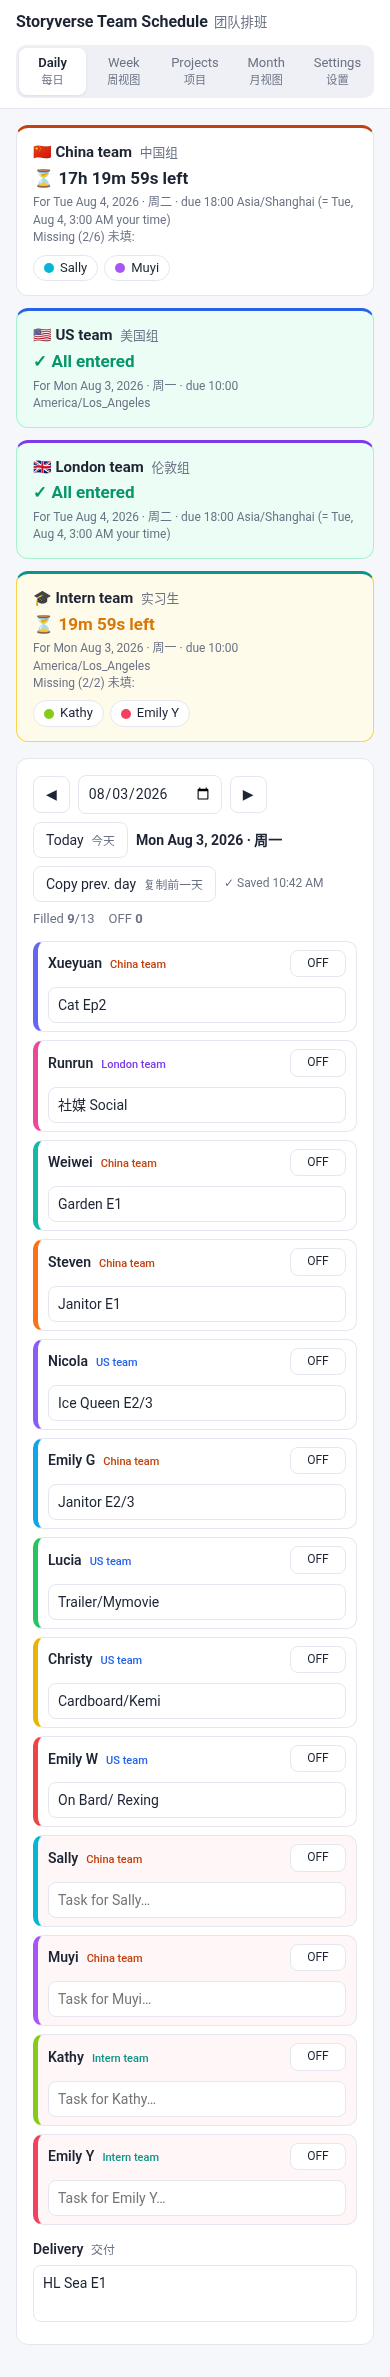
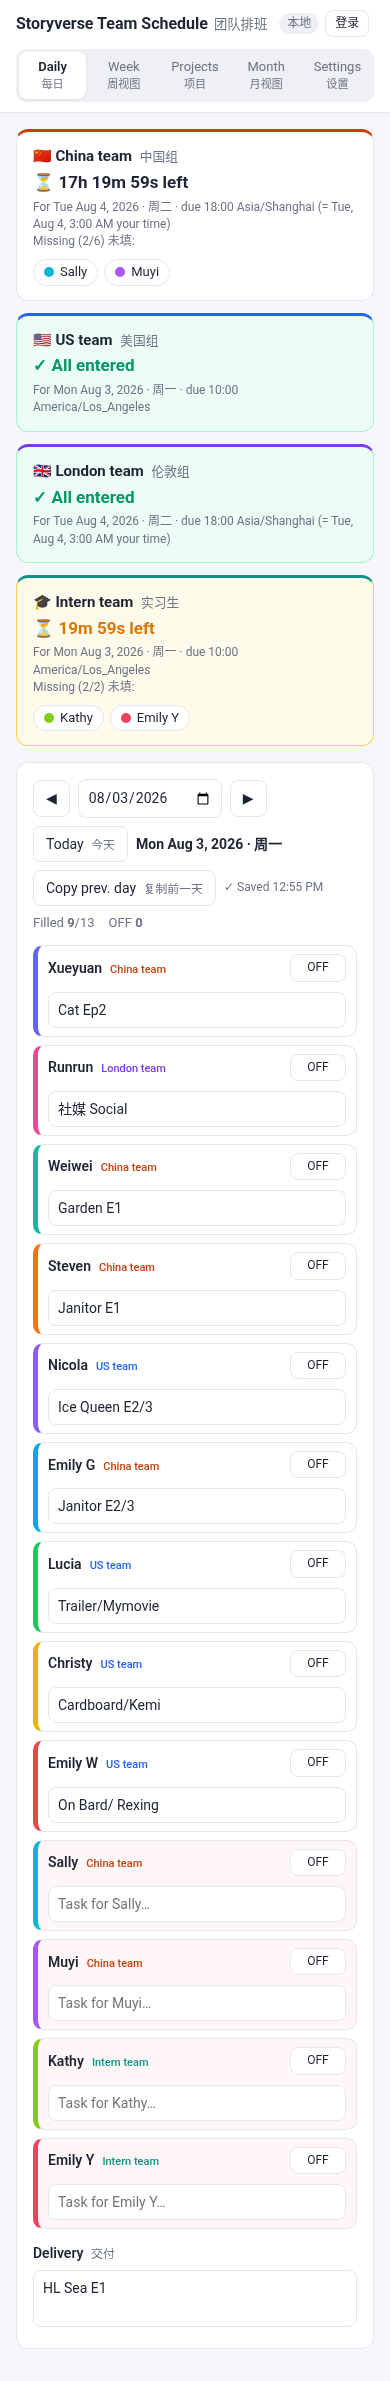
Optional private-repo sync (GitHub Contents API) with 登录/退出, 保存, auto-save, sha conflict handling

diff --git a/index.html b/index.html
@@ -112,6 +112,12 @@ code{background:#f1f3f9;padding:1px 5px;border-radius:4px;font-size:12px}
 .mdl.tk{color:var(--mute);background:transparent;padding-top:0}
 .legend{display:flex;flex-wrap:wrap;gap:6px 14px;margin-top:10px;font-size:12px;color:var(--mute)}
 .legend span{cursor:pointer}
+/* sync */
+.sync{display:flex;gap:6px;align-items:center}
+#syncState{font-size:12px;padding:2px 8px;border-radius:999px;background:#eef0f5;color:var(--mute);white-space:nowrap}
+#syncState.ok{background:var(--grns);color:var(--grn)}#syncState.dirty{background:var(--ambs);color:var(--amb)}#syncState.err{background:var(--reds);color:var(--red)}
+#loginCard{max-width:620px;margin:0 auto 16px}
+#loginCard input{width:100%;max-width:460px}
 @media (max-width:900px){
  .pj{grid-template-columns:28px 1fr 1fr auto;row-gap:6px}
  .pj .c-name{grid-column:2/4}.pj .c-del{grid-column:4;grid-row:1}
@@ -131,6 +137,12 @@ code{background:#f1f3f9;padding:1px 5px;border-radius:4px;font-size:12px}
 <body>
 <header><div class="bar">
  <div class="brand">Storyverse Team Schedule<small>团队排班</small></div>
+ <div class="sync" id="syncBox">
+  <span id="syncState" title="云端同步状态">本地</span>
+  <button class="btn sm pri hidden" id="syncSave">保存</button>
+  <label class="hint hidden" id="autoWrap" title="修改后几秒自动保存到云端"><input type="checkbox" id="syncAuto"> 自动</label>
+  <button class="btn sm" id="syncLogin">登录</button>
+ </div>
  <nav id="tabs">
   <button data-v="daily" class="on">Daily <span class="zh">每日</span></button>
   <button data-v="week">Week <span class="zh">周视图</span></button>
@@ -141,6 +153,12 @@ code{background:#f1f3f9;padding:1px 5px;border-radius:4px;font-size:12px}
 </div></header>
 <div id="toast"><div class="in"><div id="toastMsg" style="flex:1"></div><button id="toastX">Dismiss</button></div></div>
 <main>
+ <section class="card hidden" id="loginCard">
+  <h3 style="margin-top:0">登录同步 <span class="zh">Sign in to sync</span></h3>
+  <p class="hint">登录后，排班、项目、成员和团队设置会保存到私有仓库 <b id="syncRepoName"></b> 的 <code id="syncPathName"></code>，所有登录的人看到同一份数据。不登录也可以照常使用（只保存在本浏览器）。</p>
+  <p class="hint">请粘贴一个对该仓库有「Contents: 读写」权限的 GitHub 令牌。令牌只保存在本浏览器（localStorage），只发送到 api.github.com。</p>
+  <div class="row"><input id="tok" type="password" placeholder="github_pat_... 或 ghp_..." autocomplete="off"><button class="btn pri" id="tokGo">登录</button><button class="btn" id="tokCancel">取消</button></div>
+ </section>
  <div id="banner"></div>
 
  <section id="v-daily">
@@ -249,7 +267,7 @@ code{background:#f1f3f9;padding:1px 5px;border-radius:4px;font-size:12px}
      <label class="btn">Import JSON<input type="file" id="iJson" accept=".json,application/json" hidden></label>
      <button class="btn" id="eCsv">Export CSV (sheet layout)</button>
     </div>
-    <p class="hint">Data is stored in this browser only (localStorage). Export a JSON backup regularly; import it on another device to move your data.</p>
+    <p class="hint">Not signed in: data is stored in this browser only (localStorage). Signed in (登录): data syncs to a private GitHub repo and is shared by everyone signed in; a local copy is kept too. Export a JSON backup regularly.</p>
     <hr style="border:0;border-top:1px solid var(--line);margin:14px 0">
     <button class="btn danger" id="sReset">Reset all data to original sheet import</button>
     <p class="hint">Projects 项目 are kept when resetting.</p>
@@ -374,9 +392,9 @@ const team = id => SET.teams.find(t => t.id === id) || SET.teams[0];
 const teamOf = p => team(p.team);
 const badge = (p, long) => { const t = teamOf(p); return `<span class="badge" style="color:${t ? t.color : 'inherit'}">${esc(t ? t.name : p.team)}${long ? ' team' : ''}</span>`; };
 let saveTimer;
-function saveData() { localStorage.setItem(LS_DATA, JSON.stringify(DATA)); $('#saveState').textContent = '✓ Saved ' + new Date().toLocaleTimeString([], {hour:'numeric',minute:'2-digit'}); }
+function saveData() { localStorage.setItem(LS_DATA, JSON.stringify(DATA)); if (window.syncTouched) syncTouched(); $('#saveState').textContent = '✓ Saved ' + new Date().toLocaleTimeString([], {hour:'numeric',minute:'2-digit'}); }
 function saveDataSoon() { $('#saveState').textContent = 'Saving…'; clearTimeout(saveTimer); saveTimer = setTimeout(() => { saveData(); tick(true); }, 400); }
-const saveSet = () => localStorage.setItem(LS_SET, JSON.stringify(SET));
+const saveSet = () => { localStorage.setItem(LS_SET, JSON.stringify(SET)); if (window.syncTouched) syncTouched(); };
 saveSet(); if (DATA_MIGRATED) localStorage.setItem(LS_DATA, JSON.stringify(DATA));
 const getTask = (date, name) => (DATA.tasks[date] || {})[name] || '';
 function setTask(date, name, val) {
@@ -744,12 +762,99 @@ $('#eCsv').onclick = () => {
   download(`team-schedule-${ymd(now())}.csv`, '\ufeff' + lines.join('\r\n'), 'text/csv;charset=utf-8');
 };
 
+/* ---------- cloud sync (GitHub Contents API, private repo) ---------- */
+// Where shared data lives. Change owner/repo here to move it (e.g. to another account or an org).
+const SYNC = { owner: 'dora11111111', repo: 'storyverse-schedule-data', path: 'schedule.json', branch: 'main', api: 'https://api.github.com' };
+// Own token key — deliberately NOT the payroll app's key ('sv_payroll_token'), so tokens are never shared between the two sites.
+const LS_TOK = 'sv_schedule_token', LS_AUTO = 'sv_schedule_autosave', LS_SYNCSHA = 'sv_schedule_sha';
+// Settings that are shared with everyone; the rest (sound, heads-up minutes) stay per-browser.
+const SHARED_SET = ['teams', 'skipWeekends', 'version'];
+let syncSha = null, syncDirty = false, syncApplying = false, syncBusy = false, syncTimer = null, syncOn = false;
+const b64dec = b => new TextDecoder().decode(Uint8Array.from(atob(b.replace(/\n/g, '')), c => c.charCodeAt(0)));
+function b64enc(s) { const u = new TextEncoder().encode(s); let b = ''; for (let i = 0; i < u.length; i += 0x8000) b += String.fromCharCode(...u.subarray(i, i + 0x8000)); return btoa(b); }
+const tok = () => localStorage.getItem(LS_TOK);
+async function ghApi(method, body) {
+  const url = `${SYNC.api}/repos/${SYNC.owner}/${SYNC.repo}/contents/${SYNC.path}` + (method === 'GET' ? `?ref=${SYNC.branch}&t=${Date.now()}` : '');
+  const r = await fetch(url, { method, cache: 'no-store', headers: { Authorization: 'Bearer ' + tok(), Accept: 'application/vnd.github+json', 'X-GitHub-Api-Version': '2022-11-28' }, body: body && JSON.stringify(body) });
+  const j = await r.json().catch(() => ({})); if (!r.ok) { const e = new Error(j.message || r.status); e.status = r.status; throw e; } return j;
+}
+function syncState(text, cls) { const e = $('#syncState'); e.textContent = text; e.className = cls || ''; }
+function syncUi() {
+  syncOn = !!tok();
+  $('#syncLogin').textContent = syncOn ? '退出' : '登录';
+  $('#syncSave').classList.toggle('hidden', !syncOn); $('#autoWrap').classList.toggle('hidden', !syncOn);
+  $('#syncAuto').checked = localStorage.getItem(LS_AUTO) !== '0';
+  if (!syncOn) syncState('本地', '');
+}
+const syncDoc = () => ({ app: 'storyverse-team-schedule', format: 1, savedAt: new Date().toISOString(), data: DATA, settings: Object.fromEntries(SHARED_SET.filter(k => k in SET).map(k => [k, SET[k]])) });
+function applyDoc(doc) {
+  const d = doc.data || {}; if (!d.people || !d.tasks) throw new Error('schedule.json 格式不正确');
+  syncApplying = true;
+  try {
+    DATA = { stamps: {}, weekNotes: {}, delivery: {}, projects: [], ...d }; migrateData(DATA);
+    if (doc.settings) { for (const k of SHARED_SET) if (k in doc.settings) SET[k] = doc.settings[k]; if (!Array.isArray(SET.teams) || !SET.teams.length) SET.teams = TEAMS_DEFAULT.map(t => ({ ...t })); SET.version = SETTINGS_VERSION; }
+    saveSet(); saveData(); renderAll(); if (!$('#v-projects').classList.contains('hidden')) renderProjects(); if (!$('#v-month').classList.contains('hidden')) renderMonth();
+  } finally { syncApplying = false; }
+}
+window.syncTouched = () => {
+  if (syncApplying || !syncOn) return;
+  syncDirty = true; syncState('未保存', 'dirty');
+  clearTimeout(syncTimer); if ($('#syncAuto').checked) syncTimer = setTimeout(() => syncSave(true), 4000);
+};
+function backupLocal(tag) { download(`team-schedule-${tag}-${ymd(now())}-${Date.now() % 100000}.json`, JSON.stringify({ app: 'storyverse-team-schedule', exportedAt: new Date().toISOString(), data: DATA, settings: SET }, null, 1), 'application/json'); }
+async function syncLoad(opts = {}) {
+  if (!tok()) return; syncBusy = true; syncState('同步中…', '');
+  try {
+    const j = await ghApi('GET'); syncSha = j.sha; localStorage.setItem(LS_SYNCSHA, j.sha);
+    applyDoc(JSON.parse(b64dec(j.content))); syncDirty = false;
+    syncState(opts.conflict ? '冲突 · 已载入最新' : '已同步', opts.conflict ? 'err' : 'ok');
+    $('#loginCard').classList.add('hidden');
+  } catch (e) {
+    if (e.status === 404) {
+      syncSha = null;
+      if (confirm(`云端还没有 ${SYNC.repo}/${SYNC.path}（或令牌无权访问该仓库）。\n要把本浏览器当前的数据上传为第一份云端数据吗？`)) { syncBusy = false; return syncSave(false, true); }
+      syncState('云端无文件', 'err');
+    } else if (e.status === 401) { syncState('令牌无效', 'err'); alert('令牌无效或已过期，请重新登录。'); localStorage.removeItem(LS_TOK); syncUi(); $('#loginCard').classList.remove('hidden'); }
+    else if (e.status === 403) { syncState('无权限', 'err'); alert(`该令牌没有 ${SYNC.owner}/${SYNC.repo} 的读写权限。`); }
+    else syncState('加载失败', 'err');
+  } finally { syncBusy = false; }
+}
+async function syncSave(auto, first) {
+  if (!tok() || syncBusy) { if (syncBusy && auto) { clearTimeout(syncTimer); syncTimer = setTimeout(() => syncSave(true), 2000); } return; }
+  clearTimeout(syncTimer); syncBusy = true; syncState('保存中…', ''); $('#syncSave').disabled = true;
+  const body = { message: first ? 'Initial schedule data upload' : (auto ? 'Auto-save schedule' : 'Update schedule'), content: b64enc(JSON.stringify(syncDoc(), null, 1)), branch: SYNC.branch };
+  if (syncSha) body.sha = syncSha;
+  try {
+    const j = await ghApi('PUT', body); syncSha = j.content.sha; localStorage.setItem(LS_SYNCSHA, syncSha); syncDirty = false; syncState('已同步', 'ok');
+  } catch (e) {
+    if (e.status === 409 || (e.status === 422 && /sha/i.test(e.message))) {
+      syncBusy = false; syncState('冲突', 'err');
+      alert('冲突：别人已经修改了云端数据，你的修改没有覆盖它。\n已把你本地的版本下载为备份 JSON，现在载入云端最新版本。请在最新版本上重新修改。');
+      backupLocal('conflict-backup'); return syncLoad({ conflict: true });
+    }
+    syncState(e.status === 401 ? '令牌无效' : e.status === 403 || e.status === 404 ? '无权限' : '保存失败', 'err');
+    if (!auto) alert('保存失败：' + e.message);
+  } finally { syncBusy = false; $('#syncSave').disabled = false; }
+}
+$('#syncSave').onclick = () => syncSave(false);
+$('#syncAuto').onchange = e => { localStorage.setItem(LS_AUTO, e.target.checked ? '1' : '0'); if (e.target.checked && syncDirty) syncTouched(); };
+$('#syncLogin').onclick = () => {
+  if (tok()) { if (syncDirty && !confirm('还有未保存到云端的修改，确定退出吗？（修改仍保留在本浏览器）')) return; localStorage.removeItem(LS_TOK); localStorage.removeItem(LS_SYNCSHA); syncSha = null; syncDirty = false; syncUi(); return; }
+  $('#loginCard').classList.toggle('hidden'); $('#tok').focus();
+};
+$('#tokCancel').onclick = () => $('#loginCard').classList.add('hidden');
+$('#tokGo').onclick = () => { const t = $('#tok').value.trim(); if (!t) return; localStorage.setItem('storyverse.schedule.data.prelogin', JSON.stringify(DATA)); localStorage.setItem(LS_TOK, t); $('#tok').value = ''; syncUi(); syncLoad(); };
+$('#tok').onkeydown = e => { if (e.key === 'Enter') $('#tokGo').click(); };
+$('#syncRepoName').textContent = `${SYNC.owner}/${SYNC.repo}`; $('#syncPathName').textContent = SYNC.path;
+window.addEventListener('beforeunload', e => { if (syncOn && syncDirty) { e.preventDefault(); e.returnValue = ''; } });
+
 /* ---------- nav ---------- */
 function show(v) { ['daily','week','projects','month','settings'].forEach(x => $('#v-' + x).classList.toggle('hidden', x !== v)); document.querySelectorAll('#tabs button').forEach(b => b.classList.toggle('on', b.dataset.v === v)); if (v === 'week') renderWeek(); if (v === 'settings') renderSettings(); if (v === 'daily') renderDaily(); if (v === 'projects') renderProjects(); if (v === 'month') renderMonth(); }
 $('#tabs').onclick = e => { const b = e.target.closest('button'); if (b) show(b.dataset.v); };
 function renderAll() { renderDaily(); renderWeek(); renderSettings(); renderProjects(); renderMonth(); tick(true); }
 (() => { const p = new URLSearchParams(location.search); if (p.get('date')) curDate = p.get('date'); curWeek = weekStart(curDate); curMonth = curDate.slice(0, 7); renderAll(); if (p.get('view')) show(p.get('view')); })();
 if (!localStorage.getItem(LS_DATA)) saveData();
+syncUi(); if (tok()) syncLoad();
 setInterval(() => tick(false), 1000); // countdown every 1s; deadline check runs every 30s inside tick
 </script>
 </body>

diff --git a/template.html b/template.html
@@ -112,6 +112,12 @@ code{background:#f1f3f9;padding:1px 5px;border-radius:4px;font-size:12px}
 .mdl.tk{color:var(--mute);background:transparent;padding-top:0}
 .legend{display:flex;flex-wrap:wrap;gap:6px 14px;margin-top:10px;font-size:12px;color:var(--mute)}
 .legend span{cursor:pointer}
+/* sync */
+.sync{display:flex;gap:6px;align-items:center}
+#syncState{font-size:12px;padding:2px 8px;border-radius:999px;background:#eef0f5;color:var(--mute);white-space:nowrap}
+#syncState.ok{background:var(--grns);color:var(--grn)}#syncState.dirty{background:var(--ambs);color:var(--amb)}#syncState.err{background:var(--reds);color:var(--red)}
+#loginCard{max-width:620px;margin:0 auto 16px}
+#loginCard input{width:100%;max-width:460px}
 @media (max-width:900px){
  .pj{grid-template-columns:28px 1fr 1fr auto;row-gap:6px}
  .pj .c-name{grid-column:2/4}.pj .c-del{grid-column:4;grid-row:1}
@@ -131,6 +137,12 @@ code{background:#f1f3f9;padding:1px 5px;border-radius:4px;font-size:12px}
 <body>
 <header><div class="bar">
  <div class="brand">Storyverse Team Schedule<small>团队排班</small></div>
+ <div class="sync" id="syncBox">
+  <span id="syncState" title="云端同步状态">本地</span>
+  <button class="btn sm pri hidden" id="syncSave">保存</button>
+  <label class="hint hidden" id="autoWrap" title="修改后几秒自动保存到云端"><input type="checkbox" id="syncAuto"> 自动</label>
+  <button class="btn sm" id="syncLogin">登录</button>
+ </div>
  <nav id="tabs">
   <button data-v="daily" class="on">Daily <span class="zh">每日</span></button>
   <button data-v="week">Week <span class="zh">周视图</span></button>
@@ -141,6 +153,12 @@ code{background:#f1f3f9;padding:1px 5px;border-radius:4px;font-size:12px}
 </div></header>
 <div id="toast"><div class="in"><div id="toastMsg" style="flex:1"></div><button id="toastX">Dismiss</button></div></div>
 <main>
+ <section class="card hidden" id="loginCard">
+  <h3 style="margin-top:0">登录同步 <span class="zh">Sign in to sync</span></h3>
+  <p class="hint">登录后，排班、项目、成员和团队设置会保存到私有仓库 <b id="syncRepoName"></b> 的 <code id="syncPathName"></code>，所有登录的人看到同一份数据。不登录也可以照常使用（只保存在本浏览器）。</p>
+  <p class="hint">请粘贴一个对该仓库有「Contents: 读写」权限的 GitHub 令牌。令牌只保存在本浏览器（localStorage），只发送到 api.github.com。</p>
+  <div class="row"><input id="tok" type="password" placeholder="github_pat_... 或 ghp_..." autocomplete="off"><button class="btn pri" id="tokGo">登录</button><button class="btn" id="tokCancel">取消</button></div>
+ </section>
  <div id="banner"></div>
 
  <section id="v-daily">
@@ -249,7 +267,7 @@ code{background:#f1f3f9;padding:1px 5px;border-radius:4px;font-size:12px}
      <label class="btn">Import JSON<input type="file" id="iJson" accept=".json,application/json" hidden></label>
      <button class="btn" id="eCsv">Export CSV (sheet layout)</button>
     </div>
-    <p class="hint">Data is stored in this browser only (localStorage). Export a JSON backup regularly; import it on another device to move your data.</p>
+    <p class="hint">Not signed in: data is stored in this browser only (localStorage). Signed in (登录): data syncs to a private GitHub repo and is shared by everyone signed in; a local copy is kept too. Export a JSON backup regularly.</p>
     <hr style="border:0;border-top:1px solid var(--line);margin:14px 0">
     <button class="btn danger" id="sReset">Reset all data to original sheet import</button>
     <p class="hint">Projects 项目 are kept when resetting.</p>
@@ -374,9 +392,9 @@ const team = id => SET.teams.find(t => t.id === id) || SET.teams[0];
 const teamOf = p => team(p.team);
 const badge = (p, long) => { const t = teamOf(p); return `<span class="badge" style="color:${t ? t.color : 'inherit'}">${esc(t ? t.name : p.team)}${long ? ' team' : ''}</span>`; };
 let saveTimer;
-function saveData() { localStorage.setItem(LS_DATA, JSON.stringify(DATA)); $('#saveState').textContent = '✓ Saved ' + new Date().toLocaleTimeString([], {hour:'numeric',minute:'2-digit'}); }
+function saveData() { localStorage.setItem(LS_DATA, JSON.stringify(DATA)); if (window.syncTouched) syncTouched(); $('#saveState').textContent = '✓ Saved ' + new Date().toLocaleTimeString([], {hour:'numeric',minute:'2-digit'}); }
 function saveDataSoon() { $('#saveState').textContent = 'Saving…'; clearTimeout(saveTimer); saveTimer = setTimeout(() => { saveData(); tick(true); }, 400); }
-const saveSet = () => localStorage.setItem(LS_SET, JSON.stringify(SET));
+const saveSet = () => { localStorage.setItem(LS_SET, JSON.stringify(SET)); if (window.syncTouched) syncTouched(); };
 saveSet(); if (DATA_MIGRATED) localStorage.setItem(LS_DATA, JSON.stringify(DATA));
 const getTask = (date, name) => (DATA.tasks[date] || {})[name] || '';
 function setTask(date, name, val) {
@@ -744,12 +762,99 @@ $('#eCsv').onclick = () => {
   download(`team-schedule-${ymd(now())}.csv`, '\ufeff' + lines.join('\r\n'), 'text/csv;charset=utf-8');
 };
 
+/* ---------- cloud sync (GitHub Contents API, private repo) ---------- */
+// Where shared data lives. Change owner/repo here to move it (e.g. to another account or an org).
+const SYNC = { owner: 'dora11111111', repo: 'storyverse-schedule-data', path: 'schedule.json', branch: 'main', api: 'https://api.github.com' };
+// Own token key — deliberately NOT the payroll app's key ('sv_payroll_token'), so tokens are never shared between the two sites.
+const LS_TOK = 'sv_schedule_token', LS_AUTO = 'sv_schedule_autosave', LS_SYNCSHA = 'sv_schedule_sha';
+// Settings that are shared with everyone; the rest (sound, heads-up minutes) stay per-browser.
+const SHARED_SET = ['teams', 'skipWeekends', 'version'];
+let syncSha = null, syncDirty = false, syncApplying = false, syncBusy = false, syncTimer = null, syncOn = false;
+const b64dec = b => new TextDecoder().decode(Uint8Array.from(atob(b.replace(/\n/g, '')), c => c.charCodeAt(0)));
+function b64enc(s) { const u = new TextEncoder().encode(s); let b = ''; for (let i = 0; i < u.length; i += 0x8000) b += String.fromCharCode(...u.subarray(i, i + 0x8000)); return btoa(b); }
+const tok = () => localStorage.getItem(LS_TOK);
+async function ghApi(method, body) {
+  const url = `${SYNC.api}/repos/${SYNC.owner}/${SYNC.repo}/contents/${SYNC.path}` + (method === 'GET' ? `?ref=${SYNC.branch}&t=${Date.now()}` : '');
+  const r = await fetch(url, { method, cache: 'no-store', headers: { Authorization: 'Bearer ' + tok(), Accept: 'application/vnd.github+json', 'X-GitHub-Api-Version': '2022-11-28' }, body: body && JSON.stringify(body) });
+  const j = await r.json().catch(() => ({})); if (!r.ok) { const e = new Error(j.message || r.status); e.status = r.status; throw e; } return j;
+}
+function syncState(text, cls) { const e = $('#syncState'); e.textContent = text; e.className = cls || ''; }
+function syncUi() {
+  syncOn = !!tok();
+  $('#syncLogin').textContent = syncOn ? '退出' : '登录';
+  $('#syncSave').classList.toggle('hidden', !syncOn); $('#autoWrap').classList.toggle('hidden', !syncOn);
+  $('#syncAuto').checked = localStorage.getItem(LS_AUTO) !== '0';
+  if (!syncOn) syncState('本地', '');
+}
+const syncDoc = () => ({ app: 'storyverse-team-schedule', format: 1, savedAt: new Date().toISOString(), data: DATA, settings: Object.fromEntries(SHARED_SET.filter(k => k in SET).map(k => [k, SET[k]])) });
+function applyDoc(doc) {
+  const d = doc.data || {}; if (!d.people || !d.tasks) throw new Error('schedule.json 格式不正确');
+  syncApplying = true;
+  try {
+    DATA = { stamps: {}, weekNotes: {}, delivery: {}, projects: [], ...d }; migrateData(DATA);
+    if (doc.settings) { for (const k of SHARED_SET) if (k in doc.settings) SET[k] = doc.settings[k]; if (!Array.isArray(SET.teams) || !SET.teams.length) SET.teams = TEAMS_DEFAULT.map(t => ({ ...t })); SET.version = SETTINGS_VERSION; }
+    saveSet(); saveData(); renderAll(); if (!$('#v-projects').classList.contains('hidden')) renderProjects(); if (!$('#v-month').classList.contains('hidden')) renderMonth();
+  } finally { syncApplying = false; }
+}
+window.syncTouched = () => {
+  if (syncApplying || !syncOn) return;
+  syncDirty = true; syncState('未保存', 'dirty');
+  clearTimeout(syncTimer); if ($('#syncAuto').checked) syncTimer = setTimeout(() => syncSave(true), 4000);
+};
+function backupLocal(tag) { download(`team-schedule-${tag}-${ymd(now())}-${Date.now() % 100000}.json`, JSON.stringify({ app: 'storyverse-team-schedule', exportedAt: new Date().toISOString(), data: DATA, settings: SET }, null, 1), 'application/json'); }
+async function syncLoad(opts = {}) {
+  if (!tok()) return; syncBusy = true; syncState('同步中…', '');
+  try {
+    const j = await ghApi('GET'); syncSha = j.sha; localStorage.setItem(LS_SYNCSHA, j.sha);
+    applyDoc(JSON.parse(b64dec(j.content))); syncDirty = false;
+    syncState(opts.conflict ? '冲突 · 已载入最新' : '已同步', opts.conflict ? 'err' : 'ok');
+    $('#loginCard').classList.add('hidden');
+  } catch (e) {
+    if (e.status === 404) {
+      syncSha = null;
+      if (confirm(`云端还没有 ${SYNC.repo}/${SYNC.path}（或令牌无权访问该仓库）。\n要把本浏览器当前的数据上传为第一份云端数据吗？`)) { syncBusy = false; return syncSave(false, true); }
+      syncState('云端无文件', 'err');
+    } else if (e.status === 401) { syncState('令牌无效', 'err'); alert('令牌无效或已过期，请重新登录。'); localStorage.removeItem(LS_TOK); syncUi(); $('#loginCard').classList.remove('hidden'); }
+    else if (e.status === 403) { syncState('无权限', 'err'); alert(`该令牌没有 ${SYNC.owner}/${SYNC.repo} 的读写权限。`); }
+    else syncState('加载失败', 'err');
+  } finally { syncBusy = false; }
+}
+async function syncSave(auto, first) {
+  if (!tok() || syncBusy) { if (syncBusy && auto) { clearTimeout(syncTimer); syncTimer = setTimeout(() => syncSave(true), 2000); } return; }
+  clearTimeout(syncTimer); syncBusy = true; syncState('保存中…', ''); $('#syncSave').disabled = true;
+  const body = { message: first ? 'Initial schedule data upload' : (auto ? 'Auto-save schedule' : 'Update schedule'), content: b64enc(JSON.stringify(syncDoc(), null, 1)), branch: SYNC.branch };
+  if (syncSha) body.sha = syncSha;
+  try {
+    const j = await ghApi('PUT', body); syncSha = j.content.sha; localStorage.setItem(LS_SYNCSHA, syncSha); syncDirty = false; syncState('已同步', 'ok');
+  } catch (e) {
+    if (e.status === 409 || (e.status === 422 && /sha/i.test(e.message))) {
+      syncBusy = false; syncState('冲突', 'err');
+      alert('冲突：别人已经修改了云端数据，你的修改没有覆盖它。\n已把你本地的版本下载为备份 JSON，现在载入云端最新版本。请在最新版本上重新修改。');
+      backupLocal('conflict-backup'); return syncLoad({ conflict: true });
+    }
+    syncState(e.status === 401 ? '令牌无效' : e.status === 403 || e.status === 404 ? '无权限' : '保存失败', 'err');
+    if (!auto) alert('保存失败：' + e.message);
+  } finally { syncBusy = false; $('#syncSave').disabled = false; }
+}
+$('#syncSave').onclick = () => syncSave(false);
+$('#syncAuto').onchange = e => { localStorage.setItem(LS_AUTO, e.target.checked ? '1' : '0'); if (e.target.checked && syncDirty) syncTouched(); };
+$('#syncLogin').onclick = () => {
+  if (tok()) { if (syncDirty && !confirm('还有未保存到云端的修改，确定退出吗？（修改仍保留在本浏览器）')) return; localStorage.removeItem(LS_TOK); localStorage.removeItem(LS_SYNCSHA); syncSha = null; syncDirty = false; syncUi(); return; }
+  $('#loginCard').classList.toggle('hidden'); $('#tok').focus();
+};
+$('#tokCancel').onclick = () => $('#loginCard').classList.add('hidden');
+$('#tokGo').onclick = () => { const t = $('#tok').value.trim(); if (!t) return; localStorage.setItem('storyverse.schedule.data.prelogin', JSON.stringify(DATA)); localStorage.setItem(LS_TOK, t); $('#tok').value = ''; syncUi(); syncLoad(); };
+$('#tok').onkeydown = e => { if (e.key === 'Enter') $('#tokGo').click(); };
+$('#syncRepoName').textContent = `${SYNC.owner}/${SYNC.repo}`; $('#syncPathName').textContent = SYNC.path;
+window.addEventListener('beforeunload', e => { if (syncOn && syncDirty) { e.preventDefault(); e.returnValue = ''; } });
+
 /* ---------- nav ---------- */
 function show(v) { ['daily','week','projects','month','settings'].forEach(x => $('#v-' + x).classList.toggle('hidden', x !== v)); document.querySelectorAll('#tabs button').forEach(b => b.classList.toggle('on', b.dataset.v === v)); if (v === 'week') renderWeek(); if (v === 'settings') renderSettings(); if (v === 'daily') renderDaily(); if (v === 'projects') renderProjects(); if (v === 'month') renderMonth(); }
 $('#tabs').onclick = e => { const b = e.target.closest('button'); if (b) show(b.dataset.v); };
 function renderAll() { renderDaily(); renderWeek(); renderSettings(); renderProjects(); renderMonth(); tick(true); }
 (() => { const p = new URLSearchParams(location.search); if (p.get('date')) curDate = p.get('date'); curWeek = weekStart(curDate); curMonth = curDate.slice(0, 7); renderAll(); if (p.get('view')) show(p.get('view')); })();
 if (!localStorage.getItem(LS_DATA)) saveData();
+syncUi(); if (tok()) syncLoad();
 setInterval(() => tick(false), 1000); // countdown every 1s; deadline check runs every 30s inside tick
 </script>
 </body>

diff --git a/test.py b/test.py
@@ -1,5 +1,5 @@
 # Headless test: python3 -m http.server 8765 (in this folder), then python3 test.py
-import json
+import json, base64
 from playwright.sync_api import sync_playwright
 B='http://localhost:8765/index.html'
 errs=[]
@@ -68,6 +68,43 @@ with sync_playwright() as p:
     pg.locator('#mGrid .mbar').first.click(); pg.wait_for_timeout(200); assert pg.is_visible('#v-projects')
     pg.once('dialog',lambda dl: dl.accept()); pg.locator('.pj[data-pid] [data-pdel]').first.click(); pg.wait_for_timeout(200)
     assert len(pg.evaluate("JSON.parse(localStorage.getItem('storyverse.schedule.data.v1')).projects"))==1; print('delete ok')
+    ctx.close()
+    # --- 4. cloud sync with mocked GitHub API ---
+    srv={'doc':None,'sha':None,'n':0,'calls':[]}
+    def gh(route):
+        r=route.request; srv['calls'].append((r.method,r.headers.get('authorization')))
+        assert 'storyverse-schedule-data/contents/schedule.json' in r.url and 'storyverse-hr' not in r.url
+        if r.method=='GET':
+            if srv['doc'] is None: return route.fulfill(status=404,json={'message':'Not Found'})
+            return route.fulfill(json={'sha':srv['sha'],'content':base64.b64encode(srv['doc'].encode()).decode()})
+        b=json.loads(r.post_data)
+        if b.get('sha')!=srv['sha']: return route.fulfill(status=409,json={'message':'sha mismatch'})
+        srv['n']+=1; srv['sha']='s%d'%srv['n']; srv['doc']=base64.b64decode(b['content']).decode()
+        return route.fulfill(status=201 if srv['n']==1 else 200,json={'content':{'sha':srv['sha']}})
+    ctx=br.new_context(viewport={'width':1280,'height':900},accept_downloads=True); ctx.route('https://api.github.com/**',gh); pg=newpage(ctx)
+    pg.on('dialog',lambda dl: dl.accept())
+    pg.goto(B+'?view=projects'); pg.wait_for_timeout(300)
+    assert pg.inner_text('#syncState')=='本地' and pg.inner_text('#syncLogin')=='登录' and not srv['calls']; print('SYNC logged out: no API calls')
+    pg.click('#syncLogin'); pg.fill('#tok','TESTTOKEN'); pg.click('#tokGo'); pg.wait_for_timeout(600)
+    assert srv['n']==1 and json.loads(srv['doc'])['data']['people'], srv; print('SYNC first upload ok, state:',pg.inner_text('#syncState'))
+    assert pg.evaluate("localStorage.getItem('sv_schedule_token')")=='TESTTOKEN' and pg.evaluate("localStorage.getItem('sv_payroll_token')") is None
+    pg.uncheck('#syncAuto'); pg.click('#pAdd'); pg.locator('.pj[data-pid] [data-k=name]').last.fill('Synced'); pg.locator('.pj[data-pid] [data-k=name]').last.press('Tab'); pg.wait_for_timeout(600)
+    assert pg.inner_text('#syncState')=='未保存'; pg.click('#syncSave'); pg.wait_for_timeout(500)
+    assert pg.inner_text('#syncState')=='已同步' and json.loads(srv['doc'])['data']['projects'][0]['name']=='Synced'; print('SYNC manual save ok')
+    pg.check('#syncAuto'); pg.locator('.pj[data-pid] [data-k=notes]').last.fill('auto'); pg.locator('.pj[data-pid] [data-k=notes]').last.press('Tab'); pg.wait_for_timeout(5000)
+    assert json.loads(srv['doc'])['data']['projects'][0]['notes']=='auto'; print('SYNC auto-save ok')
+    # someone else saves -> our save conflicts
+    d=json.loads(srv['doc']); d['data']['projects'][0]['name']='OtherPerson'; srv['doc']=json.dumps(d); srv['sha']='other'
+    pg.uncheck('#syncAuto'); pg.locator('.pj[data-pid] [data-k=name]').last.fill('Mine'); pg.locator('.pj[data-pid] [data-k=name]').last.press('Tab'); pg.wait_for_timeout(600)
+    with pg.expect_download() as dl: pg.click('#syncSave')
+    pg.wait_for_timeout(600)
+    print('SYNC conflict state:',pg.inner_text('#syncState'),'| backup:',dl.value.suggested_filename)
+    assert '冲突' in pg.inner_text('#syncState') and json.loads(srv['doc'])['data']['projects'][0]['name']=='OtherPerson'
+    assert pg.locator('.pj[data-pid] [data-k=name]').last.input_value()=='OtherPerson'
+    # reopen -> loads from repo
+    pg2=newpage(ctx); pg2.goto(B+'?view=projects'); pg2.wait_for_timeout(600); assert pg2.locator('.pj[data-pid] [data-k=name]').last.input_value()=='OtherPerson' and pg2.inner_text('#syncState')=='已同步'
+    assert all(a=='Bearer TESTTOKEN' for _,a in srv['calls'])
+    pg2.click('#syncLogin'); assert pg2.inner_text('#syncState')=='本地' and pg2.evaluate("localStorage.getItem('sv_schedule_token')") is None; print('SYNC reload + logout ok')
     ctx.close()
     br.close()
 print('ERRORS:',errs)

diff --git a/README.md b/README.md
@@ -17,3 +17,9 @@ Open `index.html` in a browser. Data saves to the browser's local storage; use E
 
 Rebuild from the Google Sheet: download it to `../sheet.csv`, then run `python3 parse_sheet.py && python3 build.py`.
 Test: `python3 -m http.server 8765` in this folder, then `python3 test.py` (Playwright + Chrome; `?now=<ISO>` simulates time).
+
+## Cloud sync (optional)
+Click **登录** and paste a GitHub token with Contents read/write on the private data repo
+(`SYNC` constant in `template.html`, currently `dora11111111/storyverse-schedule-data`, file `schedule.json`).
+The token is kept in this browser's localStorage under `sv_schedule_token` (separate from the payroll app).
+Not signed in = local-only, exactly as before.
